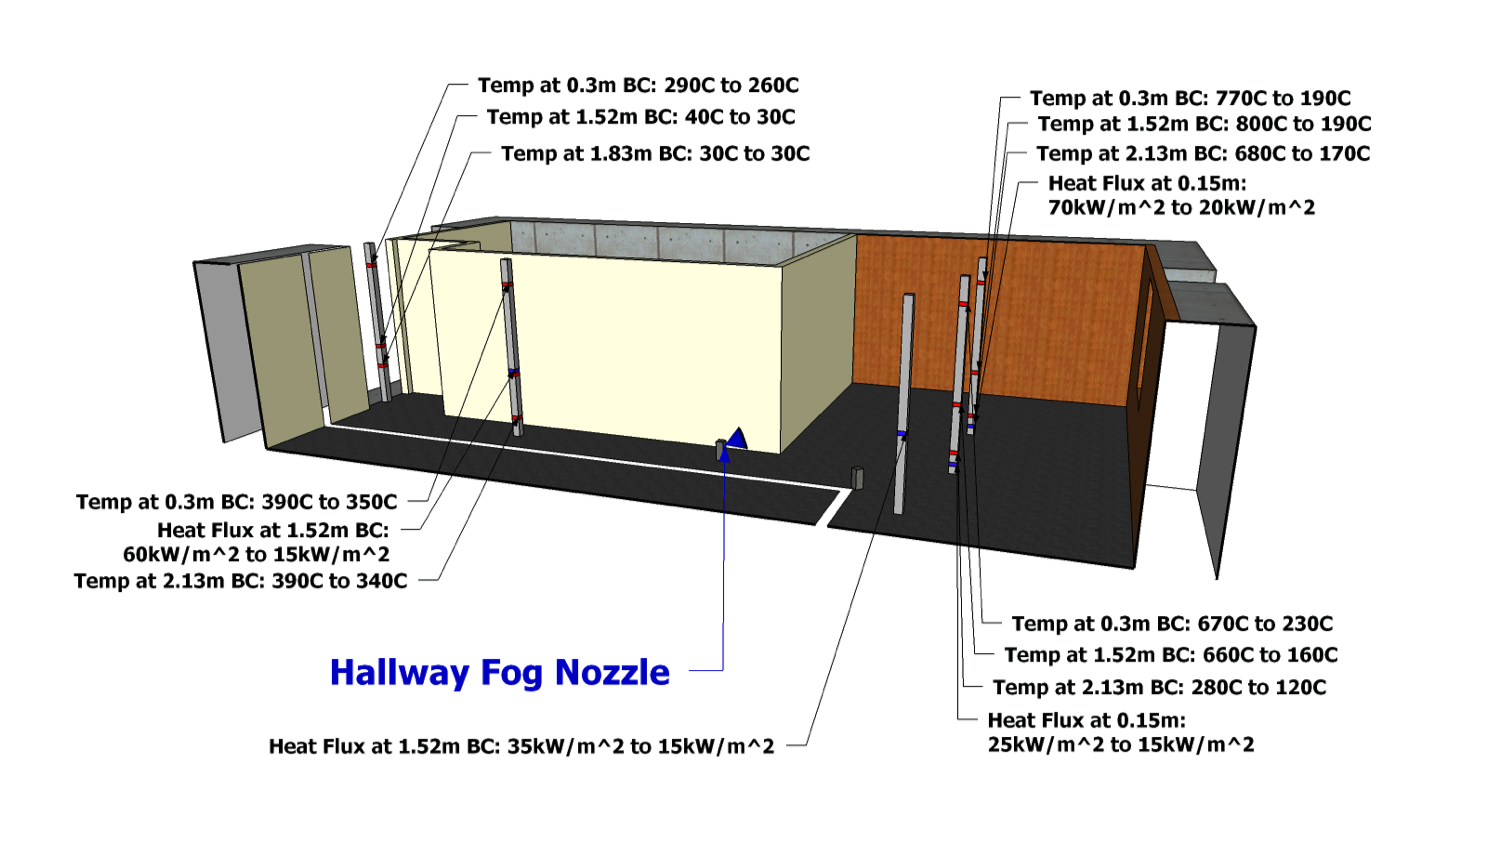
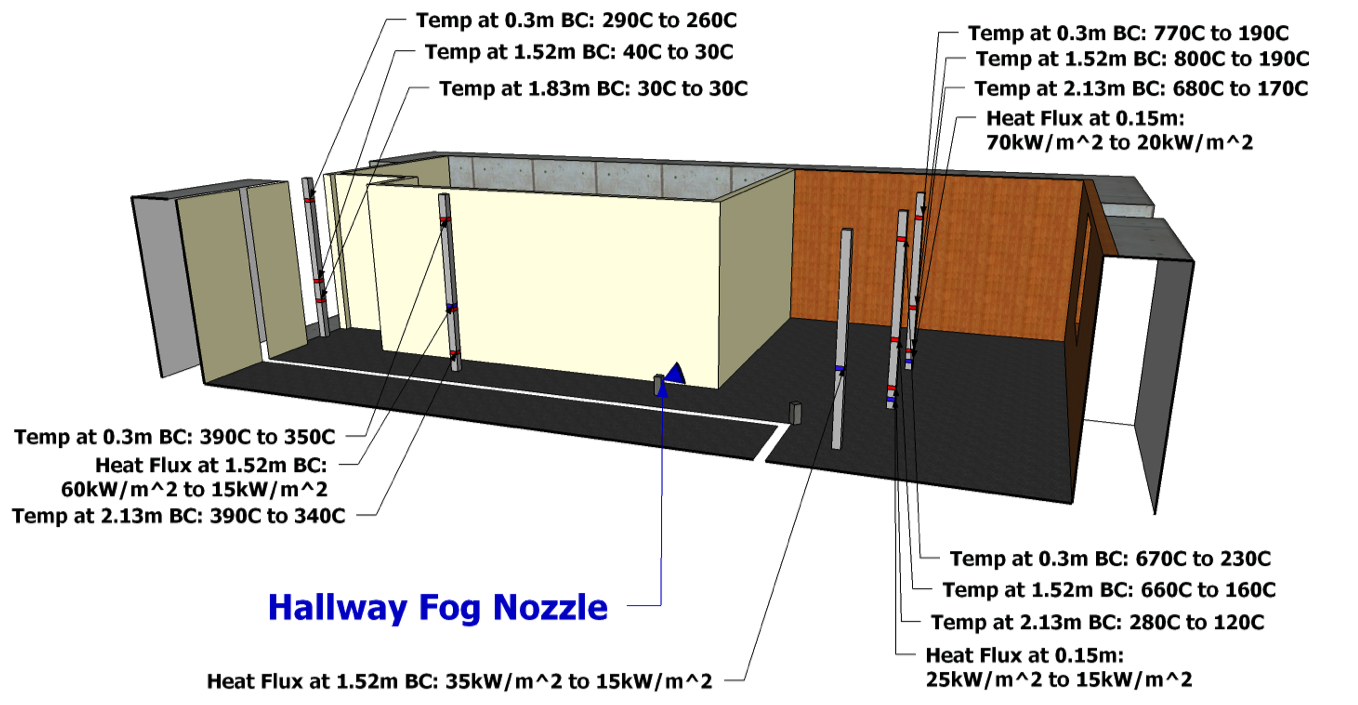
update report, crop two figures, CAFS

diff --git a/Projects/DelCo_2012/Report/DelCo_2012.tex b/Projects/DelCo_2012/Report/DelCo_2012.tex
@@ -693,7 +693,7 @@ There were three thermocouple arrays in the gas cooling room (adjacent to the bu
 \clearpage
 
 To better quantify the effectiveness of the suppression agents (CAFS, water), the maximum temperature differences associated with each gas cooling event for each agent from the three thermocouple trees were analyzed. Figure~\ref{fig:combined_all} compares the temperature differences at each thermocouple position (via a scatterplot) for the 30 replicate tests, 15 water and 15 CAFS, for all streams aimed at all positions.
-
+   
 \begin{figure}[!ht]
 	\includegraphics[width=.8\columnwidth]{../Figures/Gas_Cooling/Combined_scatter}
 	\caption{CAFS vs Water Gas Cooling Comparison for All Replicate Tests}
@@ -821,13 +821,20 @@ CAFS~6 Room      & 180~$^{\circ}$C - 130~$^{\circ}$C   &                        
 \end{tabular}\par
 \end{table}
 
-To better visualize the data presented in Table~\ref{tab:Test_Results}, Fig.~\ref{fig:fs_1_1} shows the thermocouple temperature and heat flux changes for CAFS Test 1 as a result of the hallway (first) and room (second) suppression actions.
+To better visualize the data presented in Table~\ref{tab:Test_Results}, Fig.~\ref{fig:fs_1_1} shows the thermocouple temperature and heat flux changes for CAFS Test 1 as a result of the hallway (first) and room (second) suppression actions. Fig.~\ref{fig:fs_1_2} shows the same impacts as Fig.~\ref{fig:fs_1_1}, except that the tests used water.
 
 \begin{figure}[ht!]
 	\includegraphics[width=\columnwidth]{../Figures/Pictures/Metric/DelCoFogTest1FirstSuppression}
 	\includegraphics[width=\columnwidth]{../Figures/Pictures/Metric/DelCoFogTest1SecondSuppression}
-	\caption{Impact of fire suppression actions on thermocouple and heat flux measurements for CAFS Test 1. The top image shows the hallway suppression impact and the bottom images shows the room suppression impact.}
+	\caption{Impact of fire suppression actions on thermocouple and heat flux measurements for CAFS Test 1 with a 30$^{\circ}$ Fog nozzle. The top image shows the hallway suppression impact and the bottom images shows the room suppression impact.}
 	\label{fig:fs_1_1}
+\end{figure}
+
+\begin{figure}[ht!]
+	\includegraphics[width=\columnwidth]{../Figures/Pictures/Metric/DelCoFogTest2FirstSuppression}
+	\includegraphics[width=\columnwidth]{../Figures/Pictures/Metric/DelCoFogTest2SecondSuppression}
+	\caption{Impact of fire suppression actions on thermocouple and heat flux measurements for Water Test 1 with a 30$^{\circ}$ Fog nozzle. The top image shows the hallway suppression impact and the bottom images shows the room suppression impact.}
+	\label{fig:fs_1_2}
 \end{figure}
 
 Note that while there are some differences in the changes in temperature and heat flux when comparing CAFS to Water, differences are not substantial. Both suppression agents had similar, significant impact in reducing the high-temperature, high-heat flux environment that existed before suppression. The first (hallway) suppression, an indirect attack, did a majority of the cooling in all of the tests. This illustrates the impact of gas cooling, independent of suppression agent. In several cases rekindling occurred, as seen by the temperature increase between the two nozzle applications, but all cases the second (room) attack controlled the fire.
@@ -923,6 +930,8 @@ Thank you for assisting NIST in generating data that will assist the fire servic
 \chapter{Spray Density Figures}
 \label{app:spray_density}
 
+\section{Spray density figures for burn building tests}
+
 \begin{figure}[ht]
 \begin{tabular*}{\textwidth}{lr}
 \includegraphics[width=3.2in]{../Figures/Bars/BB1} &
@@ -997,6 +1006,8 @@ Thank you for assisting NIST in generating data that will assist the fire servic
 
 \clearpage
 
+\section{Spray density figures for experimental structure tests}
+
 \begin{figure}[ht]
 \begin{tabular*}{\textwidth}{lr}
 \includegraphics[width=3.2in]{../Figures/Bars/ES_1} &
@@ -1038,19 +1049,112 @@ Thank you for assisting NIST in generating data that will assist the fire servic
 \label{app:fire_suppression}
 
 \begin{figure}[ht!]
-	\includegraphics[width=\columnwidth]{../Figures/Pictures/Metric/DelCoFogTest1FirstSuppression}
-	\includegraphics[width=\columnwidth]{../Figures/Pictures/Metric/DelCoFogTest1SecondSuppression}
-	\caption{Impact of fire suppression actions on thermocouple and heat flux measurements for CAFS Test 1. The top image shows the hallway suppression impact and the bottom images shows the room suppression impact.}
-	\label{fig:app_fs_1}
+\includegraphics[width=.82\columnwidth]{../Figures/Pictures/Metric/DelCoFogTest1FirstSuppression}
+\includegraphics[width=.82\columnwidth]{../Figures/Pictures/Metric/DelCoFogTest1SecondSuppression}
+\caption{Impact of fire suppression actions on thermocouple and heat flux measurements for CAFS Test 1 with a 30$^{\circ}$ Fog nozzle. The top image shows the hallway suppression impact and the bottom images shows the room suppression impact.}
+\label{fig:app_fs_1}
 \end{figure}
+
+\clearpage
 
 \begin{figure}[ht!]
-	\includegraphics[width=\columnwidth]{../Figures/Pictures/Metric/DelCoFogTest2FirstSuppression}
-	\includegraphics[width=\columnwidth]{../Figures/Pictures/Metric/DelCoFogTest2SecondSuppression}
-	\caption{Impact of fire suppression actions on thermocouple and heat flux measurements for Water Test 1. The top image shows the hallway suppression impact and the bottom images shows the room suppression impact.}
-	\label{fig:app_fs_2}
+\includegraphics[width=\columnwidth]{../Figures/Pictures/Metric/DelCoFogTest2FirstSuppression}
+\includegraphics[width=\columnwidth]{../Figures/Pictures/Metric/DelCoFogTest2SecondSuppression}
+\caption{Impact of fire suppression actions on thermocouple and heat flux measurements for Water Test 1 with a 30$^{\circ}$ Fog nozzle. The top image shows the hallway suppression impact and the bottom images shows the room suppression impact.}
+\label{fig:app_fs_2}
 \end{figure}
 
+\clearpage
+
+\begin{figure}[ht!]
+\includegraphics[width=\columnwidth]{../Figures/Pictures/Metric/DelCoSSTest3FirstSuppression}
+\includegraphics[width=\columnwidth]{../Figures/Pictures/Metric/DelCoSSTest3SecondSuppression}
+\caption{Impact of fire suppression actions on thermocouple and heat flux measurements for CAFS Test 2 with a 7/8'' 
+Smooth Bore nozzle. The top image shows the hallway suppression impact and the bottom images shows the room suppression impact.}
+\label{fig:app_fs_3}
+\end{figure}
+
+\clearpage
+
+\begin{figure}[ht!]
+\includegraphics[width=\columnwidth]{../Figures/Pictures/Metric/DelCoSSTest4FirstSuppression}
+\includegraphics[width=\columnwidth]{../Figures/Pictures/Metric/DelCoSSTest4SecondSuppression}
+\caption{Impact of fire suppression actions on thermocouple and heat flux measurements for Water Test 2 with a 7/8'' 
+Smooth Bore nozzle. The top image shows the hallway suppression impact and the bottom images shows the room suppression impact.}
+\label{fig:app_fs_4}
+\end{figure}
+
+\clearpage
+
+\begin{figure}[ht!]
+\includegraphics[width=\columnwidth]{../Figures/Pictures/Metric/DelCoFogTest5FirstSuppression}
+\includegraphics[width=\columnwidth]{../Figures/Pictures/Metric/DelCoFogTest5SecondSuppression}
+\caption{Impact of fire suppression actions on thermocouple and heat flux measurements for Water Test 3 with a 30$^{\circ}$ Fog nozzle. The top image shows the hallway suppression impact and the bottom images shows the room suppression impact.}
+\label{fig:app_fs_5}
+\end{figure}
+
+\clearpage
+
+\begin{figure}[ht!]
+\includegraphics[width=\columnwidth]{../Figures/Pictures/Metric/DelCoFogTest6FirstSuppression}
+\includegraphics[width=\columnwidth]{../Figures/Pictures/Metric/DelCoFogTest6SecondSuppression}
+\caption{Impact of fire suppression actions on thermocouple and heat flux measurements for CAFS Test 3 with a 30$^{\circ}$ Fog nozzle. The top image shows the hallway suppression impact and the bottom images shows the room suppression impact.}
+\label{fig:app_fs_6}
+\end{figure}
+
+\clearpage
+
+\begin{figure}[ht!]
+\includegraphics[width=\columnwidth]{../Figures/Pictures/Metric/DelCoFogTest7FirstSuppression}
+\includegraphics[width=\columnwidth]{../Figures/Pictures/Metric/DelCoFogTest7SecondSuppression}
+\caption{Impact of fire suppression actions on thermocouple and heat flux measurements for Water Test 4 with a 30$^{\circ}$ Fog nozzle. The top image shows the hallway suppression impact and the bottom images shows the room suppression impact.}
+\label{fig:app_fs_7}
+\end{figure}
+
+\clearpage
+
+\begin{figure}[ht!]
+\includegraphics[width=\columnwidth]{../Figures/Pictures/Metric/DelCoFogTest8FirstSuppression}
+\includegraphics[width=\columnwidth]{../Figures/Pictures/Metric/DelCoFogTest8SecondSuppression}
+\caption{Impact of fire suppression actions on thermocouple and heat flux measurements for CAFS Test 4 with a 30$^{\circ}$ Fog nozzle. The top image shows the hallway suppression impact and the bottom images shows the room suppression impact.}
+\label{fig:app_fs_8}
+\end{figure}
+
+\clearpage
+
+\begin{figure}[ht!]
+\includegraphics[width=\columnwidth]{../Figures/Pictures/Metric/DelCoFogTest11FirstSuppression}
+\includegraphics[width=\columnwidth]{../Figures/Pictures/Metric/DelCoFogTest11SecondSuppression}
+\caption{Impact of fire suppression actions on thermocouple and heat flux measurements for Water Test 5 with a 30$^{\circ}$ Fog nozzle. The top image shows the hallway suppression impact and the bottom images shows the room suppression impact.}
+\label{fig:app_fs_11}
+\end{figure}
+
+\clearpage
+
+\begin{figure}[ht!]
+\includegraphics[width=\columnwidth]{../Figures/Pictures/Metric/DelCoFogTest12FirstSuppression}
+\includegraphics[width=\columnwidth]{../Figures/Pictures/Metric/DelCoFogTest12SecondSuppression}
+\caption{Impact of fire suppression actions on thermocouple and heat flux measurements for CAFS Test 5 with a 30$^{\circ}$ Fog nozzle. The top image shows the hallway suppression impact and the bottom images shows the room suppression impact.}
+\label{fig:app_fs_12}
+\end{figure}
+
+\clearpage
+
+\begin{figure}[ht!]
+\includegraphics[width=\columnwidth]{../Figures/Pictures/Metric/DelCoFogTest13FirstSuppression}
+\includegraphics[width=\columnwidth]{../Figures/Pictures/Metric/DelCoFogTest13SecondSuppression}
+\caption{Impact of fire suppression actions on thermocouple and heat flux measurements for Water Test 6 with a 30$^{\circ}$ Fog nozzle. The top image shows the hallway suppression impact and the bottom images shows the room suppression impact.}
+\label{fig:app_fs_13}
+\end{figure}
+
+\clearpage
+
+\begin{figure}[ht!]
+\includegraphics[width=\columnwidth]{../Figures/Pictures/Metric/DelCoFogTest14FirstSuppression}
+\includegraphics[width=\columnwidth]{../Figures/Pictures/Metric/DelCoFogTest14SecondSuppression}
+\caption{Impact of fire suppression actions on thermocouple and heat flux measurements for CAFS Test 6 with a 30$^{\circ}$ Fog nozzle. The top image shows the hallway suppression impact and the bottom images shows the room suppression impact.}
+\label{fig:app_fs_14}
+\end{figure}
 
 \end{document}
 
